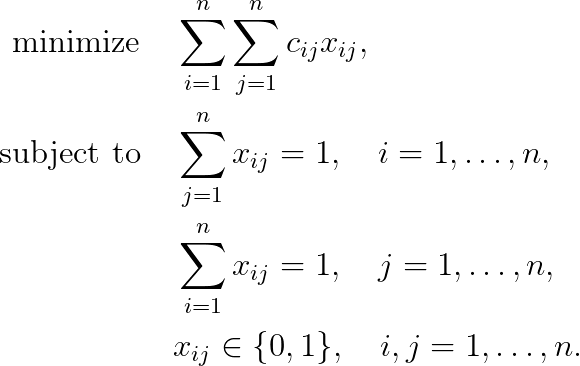
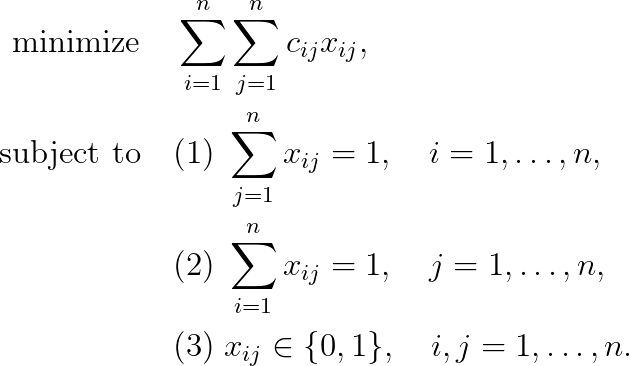
Create 15-linear-sum-assignment-problem

diff --git a/15-linear-sum-assignment-problem/README.md b/15-linear-sum-assignment-problem/README.md
@@ -4,12 +4,34 @@
 ## Problem formulation
 
 
-Given an $n \times n$ cost matrix $C = (c_{ij})$, where $c_{ij}$ measures the cost
-of assigning $i$ to $j$, we ask for an assignment with minimum total cost.
+The **linear sum assignment problem, LSAP** is one of the most famous problems in linear
+programming and in combinatorial optimization. Informally speaking, we are given an
+$n \times n$ **cost matrix** $C = (c_{ij})$, where $c_{ij}$ measures the cost
+of assigning $i$ to $j$, and we want to match each row to a different column in such
+a way that the sum of the corresponding entries is minimized. In other words, we want to
+select $n$ elements of matrix $C$ so that there is exactly one element in each row and one in each
+column and the sum of the corresponding costs is a minimum.
 
+Alternatively, one can define **LSAP** through a graph theory model. Define a bipartite
+graph $G = (U, V; E)$ having a vertex of $U$ for each row, a vertex of $V$ for each column, and
+cost $c_{ij}$ associated with edge $[i, j]$ for $i, j = 1, 2, \ldots , n$. The problem is then to determine a
+minimum cost perfect matching in $G$ (weighted bipartite matching problem: find a subset
+of edges such that each vertex belongs to exactly one edge and the sum of the costs of these
+edges is a minimum).
+
+The problem is formulated as follows
 
 
 ![Mathematical formulation](./problem.png)
+
+
+The first set of equations (1) says that every row of a matrix $X = (x_{ij})$ sums to $1$. The
+second set of equations (2) says that every column of a matrix $X$ has a sum of $1$.
+Finally, (3) says that a matrix $X$ has only the entries $0$ and $1$. In particular,
+a matrix $X$ has exactly $n$ 1-entries, one in every row and in every column. The
+relations (1)–(3) are called assignment constraints and the matrix $X$ is called the permutation matrix.
+
+
 
 
 ## Remarks
